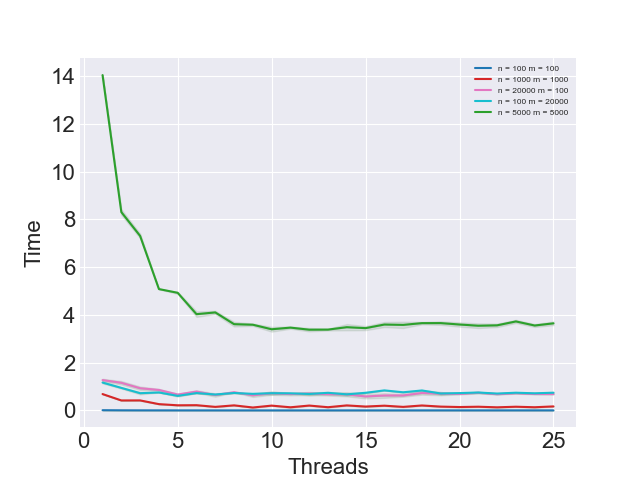
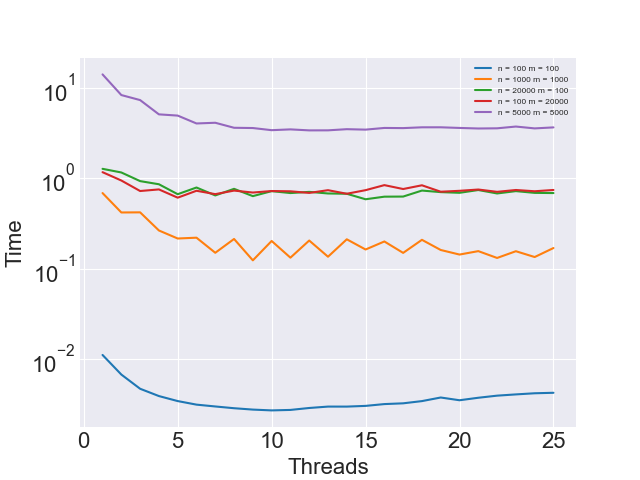
Done all plots

diff --git a/assignment_2/heat_omp/experiment-parameters-set.py b/assignment_2/heat_omp/experiment-parameters-set.py
@@ -29,10 +29,76 @@ def plot_varying_threads(ax1, ax2, n, m, df):
 
     #time graph
     ys = points_to_plot['time']['mean']
-    ax2.plot(xs, ys, label="n = " + str(n) + " m = " + str(m))
-    plot_hi_lo(ax2, xs, ys, points_to_plot['time']['sem'])
+    ax2.semilogy(xs, ys, label="n = " + str(n) + " m = " + str(m))
     ax2.legend(prop={'size': 6})
     ax2.set(xlabel = "Threads", ylabel = "Time")
+
+def plot_speed_up(ax1, ax2, n, m, df, df_seq, experiment_tuples):
+    mean_for_seq = []
+    mean_for_one_threads = []
+    sem_for_one_threads = []
+
+    mean_for_two_threads = []
+    sem_for_two_threads = []
+
+    mean_for_three_threads = []
+    sem_for_three_threads = []
+    strings = np.array([])
+    df_1 = df[df['threads'] == 1]
+    df_2 = df[df['threads'] == 2]
+    df_3 = df[df['threads'] == 3]
+    print(df_1)
+    print(df_2)
+    print(df_3)
+    for experiment_tuple in experiment_tuples:
+        strings = np.append(strings, str(experiment_tuple))
+
+        (m, n) = experiment_tuple
+        mean_seq = df_seq[(df_seq['n'] == n) & (df_seq['m'] == m)]["time"]["mean"].iloc[0]
+        mean_one_threads = df[(df['n'] == n) & (df['m'] == m) & (df['threads'] == 1)]["time"]["mean"].iloc[0]
+        mean_two_threads = df[(df['n'] == n) & (df['m'] == m) & (df['threads'] == 2)]["time"]["mean"].iloc[0]
+        mean_three_threads = df[(df['n'] == n) & (df['m'] == m) & (df['threads'] == 3)]["time"]["mean"].iloc[0]
+
+        mean_for_seq.append(mean_seq)
+        mean_for_one_threads.append(mean_one_threads)
+        mean_for_two_threads.append(mean_two_threads)
+        mean_for_three_threads.append(mean_three_threads)
+
+    for i in range(0, len(experiment_tuples)):
+        firsts = np.ones(5)
+        seconds = [i / j for i, j in zip(mean_for_one_threads, mean_for_two_threads)]
+        thirds = [i / j for i, j in zip(mean_for_one_threads, mean_for_three_threads)]
+
+        firsts_seq = np.ones(5)
+        seconds_seq = [i / j for i, j in zip(mean_for_seq, mean_for_two_threads)]
+        thirds_seq = [i / j for i, j in zip(mean_for_seq, mean_for_three_threads)]
+
+    x = np.arange(5)
+    width = 0.25  # the width of the bars
+
+    offset = 0
+    ax1.bar(x + offset, firsts, width=width, label="1 thread", color="red")
+    ax2.bar(x + offset, firsts_seq, width=width, label="sequential", color="red")
+
+    offset+=width
+    ax1.bar(x + offset, seconds, width=width, label="2 threads", color="green")
+    ax2.bar(x + offset, seconds_seq, width=width, label="2 threads", color="green")
+
+    offset+=width
+    ax1.bar(x + offset, thirds, width=width, label="3 threads", color="blue")
+    ax2.bar(x + offset, thirds_seq, width=width, label="3 threads", color="blue")
+
+    ax1.tick_params(labelsize=10)
+    ax1.set_xticks(x + width, strings)
+    ax1.set_xlabel("(m,n)", fontsize=14)
+    ax1.set_ylabel("Speed-up", fontsize=14)
+    ax1.legend()
+
+    ax2.tick_params(labelsize=10)
+    ax2.set_xticks(x + width, strings)
+    ax2.set_xlabel("(m,n)", fontsize=14)
+    ax2.set_ylabel("Speed-up", fontsize=14)
+    ax2.legend(prop={'size': 12})
 
 def fix_df():
     df = pd.read_csv('data_assignment2.csv')
@@ -51,16 +117,25 @@ def fix_df():
 
 def make_plots():
     df = fix_df()
+    df_seq = pd.read_csv('data_assignment2_seq.csv')
+    df_seq = df_seq.groupby(['n', 'm']).agg(['mean','sem']).reset_index()
+
     experiment_tuples = [(100, 100), (1000,1000), (100, 20000), (20000, 100), (5000, 5000)]
 
     fig1,ax1 = plt.subplots()
     fig2,ax2 = plt.subplots()
+    fig3,ax3 = plt.subplots()
+    fig4,ax4 = plt.subplots()
 
     for tuple in experiment_tuples:
         (m, n) = tuple
         plot_varying_threads(ax1, ax2, n, m, df)
 
+    plot_speed_up(ax3, ax4, n, m, df, df_seq, experiment_tuples)
+
     fig1.savefig("flops.png")
     fig2.savefig("times.png")
+    fig3.savefig("speed-up_heat.png")
+    fig4.savefig("speed-up_heat_seq.png")
 
 make_plots()
